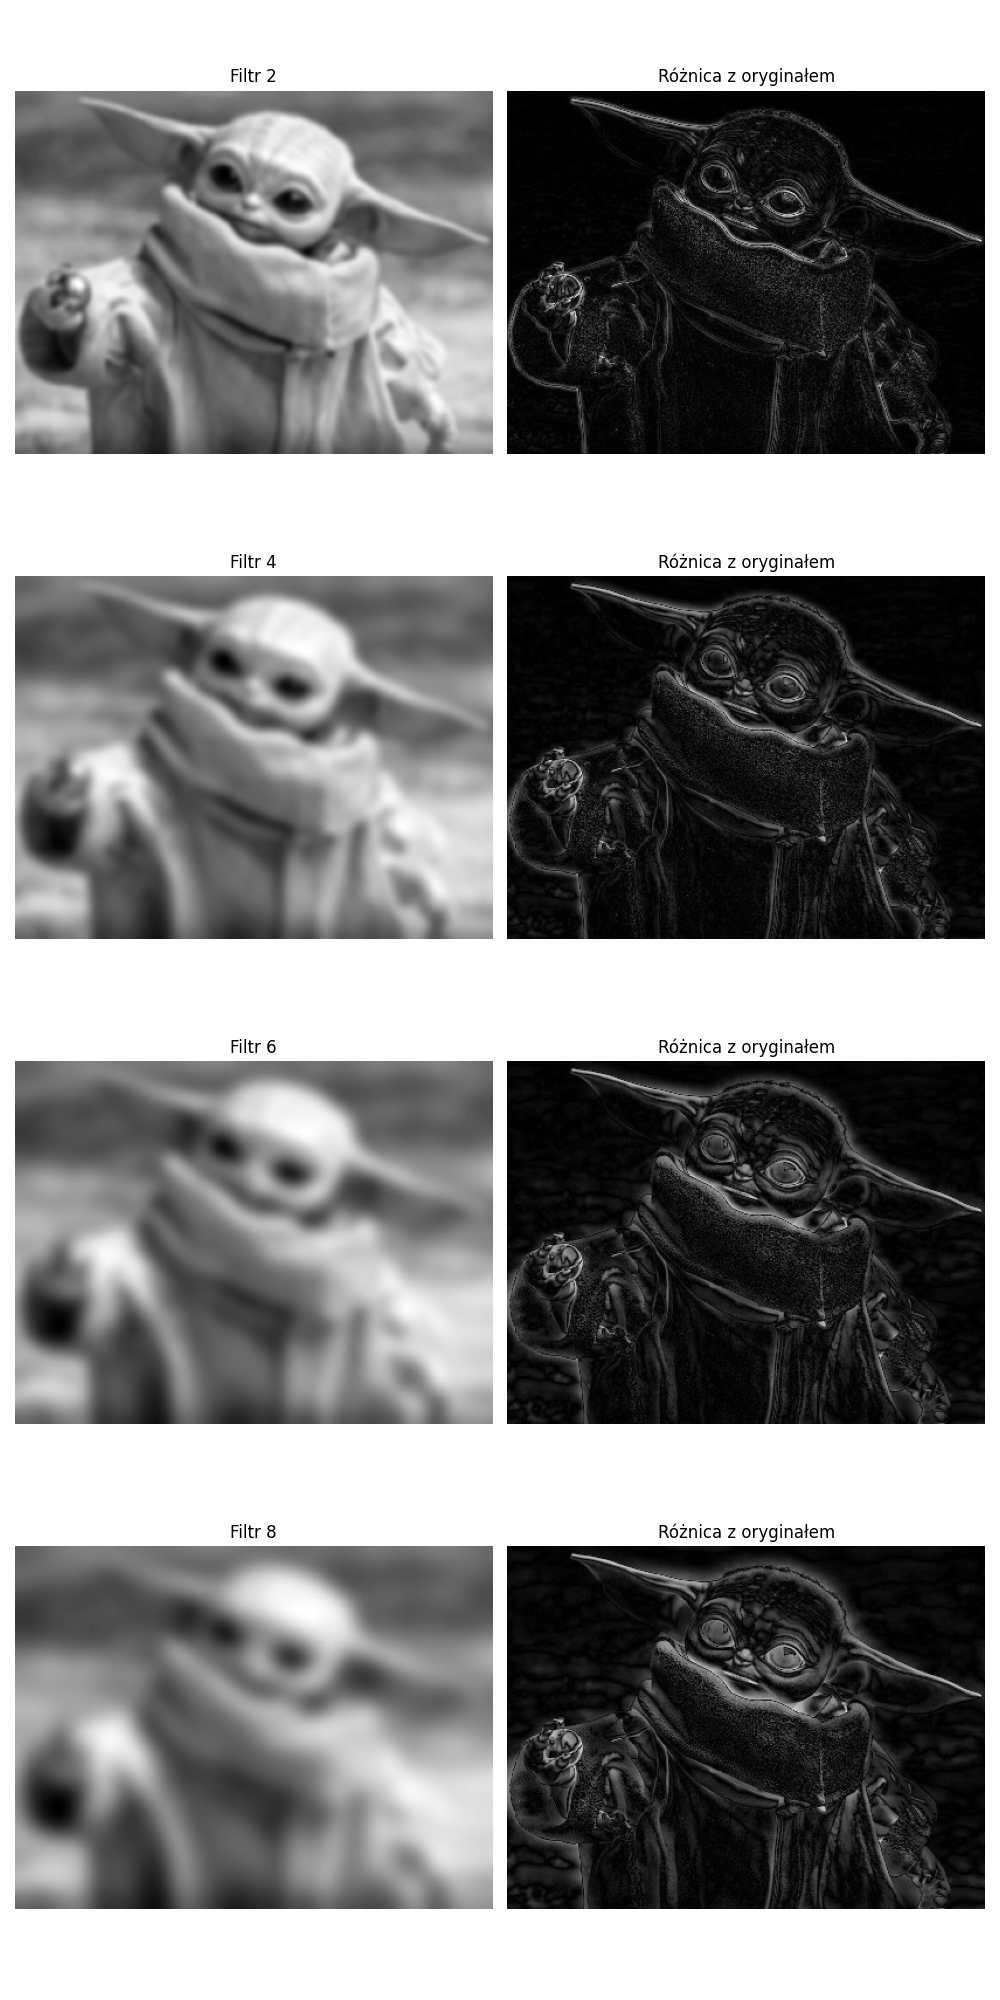
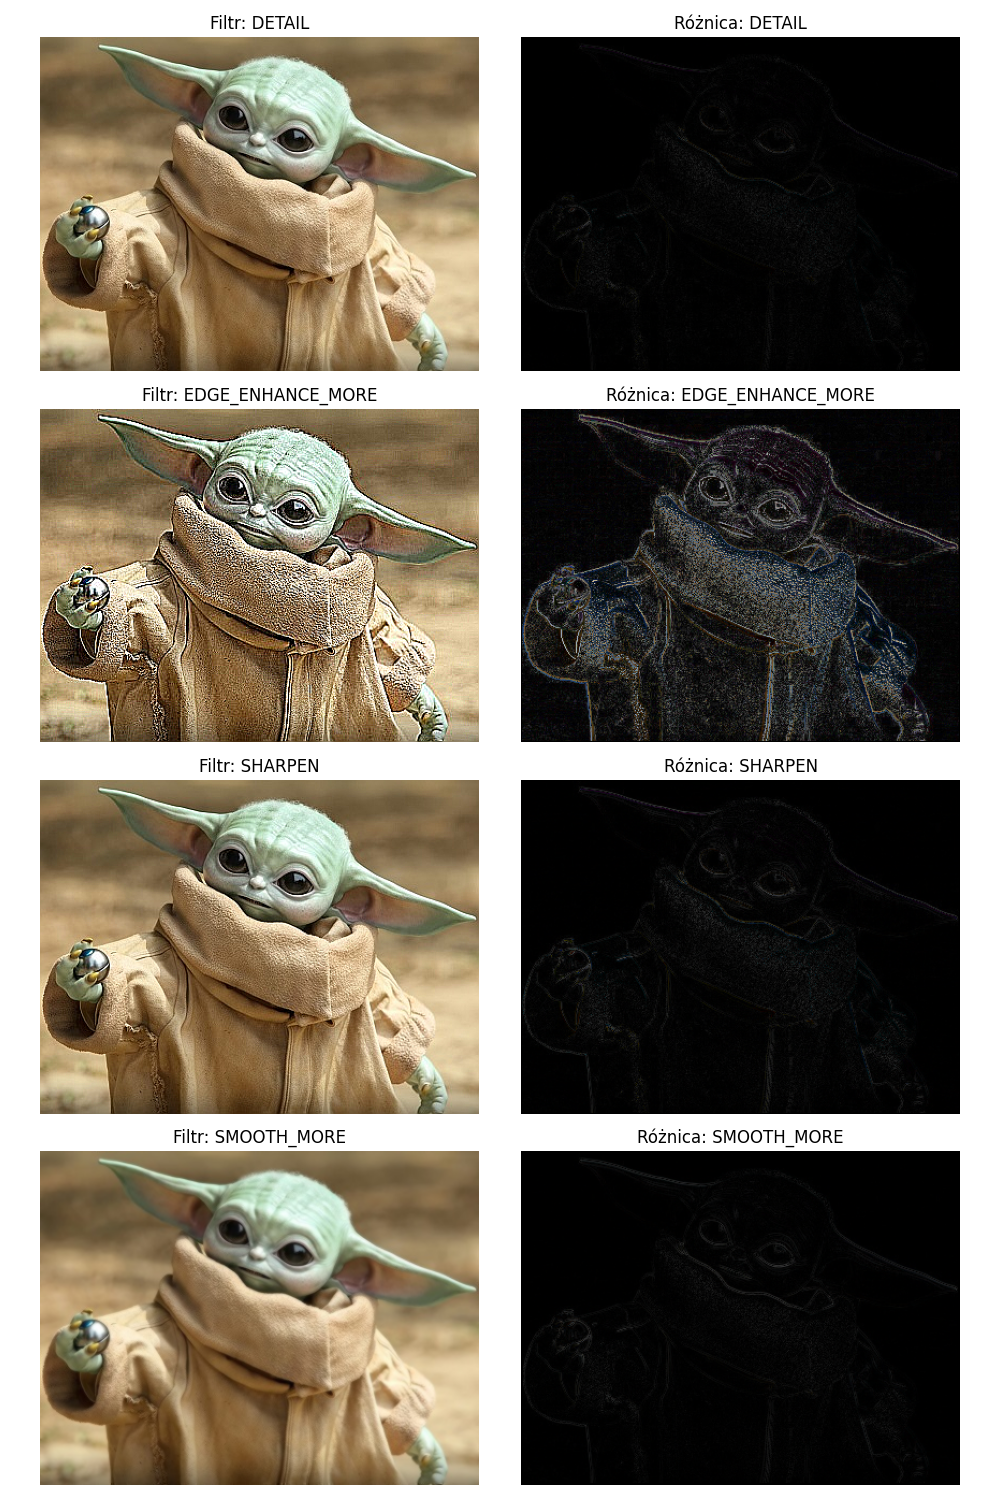
Lab 8 - Ex 3

diff --git a/Lab8/Lab8_1.py b/Lab8/Lab8_1.py
@@ -119,69 +119,23 @@ plt.savefig("fig2.png")
 # plt.show()
 
 # Zad 4
+filters = [ImageFilter.DETAIL, ImageFilter.EDGE_ENHANCE_MORE, ImageFilter.SHARPEN, ImageFilter.SMOOTH_MORE]
+filter_names = ["DETAIL", "EDGE_ENHANCE_MORE", "SHARPEN", "SMOOTH_MORE"]
 
-obraz = Image.open("baby_yoda.jpg").convert("L")
+fig, axs = plt.subplots(len(filters), 2, figsize=(10, 15))
 
-filtry = [
-    ("Filtr 2", ImageFilter.GaussianBlur(2)),
-    ("Filtr 4", ImageFilter.GaussianBlur(4)),
-    ("Filtr 6", ImageFilter.GaussianBlur(6)),
-    ("Filtr 8", ImageFilter.GaussianBlur(8)),
-]
+for i, (filt, name) in enumerate(zip(filters, filter_names)):
+    filtered_img = obraz.filter(filt)
+    diff_img = ImageChops.difference(obraz, filtered_img)
 
-przefiltrowane_obrazy = []
-roznice = []
-
-for nazwa, filtr in filtry:
-    przefiltrowany = obraz.filter(filtr)
-    przefiltrowane_obrazy.append((nazwa, przefiltrowany))
-    roznice.append(ImageChops.difference(obraz, przefiltrowany))
-
-fig, axs = plt.subplots(len(filtry), 2, figsize=(10, 20))
-
-for i, ((nazwa, przefiltrowany), roznica) in enumerate(zip(przefiltrowane_obrazy, roznice)):
-    axs[i, 0].imshow(przefiltrowany, cmap="gray")
-    axs[i, 0].set_title(nazwa)
+    axs[i, 0].imshow(filtered_img, cmap="gray")
+    axs[i, 0].set_title(f"Filtr: {name}")
     axs[i, 0].axis("off")
 
-    axs[i, 1].imshow(roznica, cmap="gray")
-    axs[i, 1].set_title(f"Różnica z oryginałem")
+    axs[i, 1].imshow(diff_img, cmap="gray")
+    axs[i, 1].set_title(f"Różnica: {name}")
     axs[i, 1].axis("off")
 
 plt.tight_layout()
 plt.savefig("fig3.png")
-plt.show()
 
-# Zad 5
-obraz = Image.open("baby_yoda.jpg").convert("L")
-
-filtry = [
-    ("FIND_EDGES", ImageFilter.FIND_EDGES, {}),
-    ("SMOOTH", ImageFilter.SMOOTH, {}),
-    ("MEDIANFILTER, size=5", ImageFilter.MedianFilter(size=5), {}),
-    ("MAXFILTER, size=7", ImageFilter.MaxFilter(size=7), {}),
-    ("RANKFILTER, size=7, rank=10", ImageFilter.RankFilter(size=7, rank=10), {}),
-]
-
-przefiltrowane_obrazy = []
-roznice = []
-
-for nazwa, filtr, parametry in filtry:
-    przefiltrowany = obraz.filter(filtr)
-    przefiltrowane_obrazy.append((nazwa, przefiltrowany))
-    roznice.append(ImageChops.difference(obraz, przefiltrowany))
-
-fig, axs = plt.subplots(len(filtry), 2, figsize=(10, len(filtry) * 5))
-
-for i, ((nazwa, przefiltrowany), roznica) in enumerate(zip(przefiltrowane_obrazy, roznice)):
-    axs[i, 0].imshow(przefiltrowany, cmap="gray")
-    axs[i, 0].set_title(nazwa)
-    axs[i, 0].axis("off")
-
-    axs[i, 1].imshow(roznica, cmap="gray")
-    axs[i, 1].set_title(f"Różnica z oryginałem")
-    axs[i, 1].axis("off")
-
-plt.tight_layout()
-plt.savefig("fig4.png")
-plt.show()
